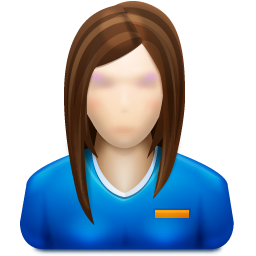
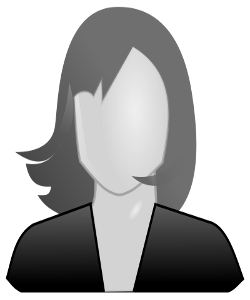
fixed user pictures in comments & slider partial error

diff --git a/app/assets/stylesheets/style.css.scss b/app/assets/stylesheets/style.css.scss
@@ -180,6 +180,7 @@ body {
   margin-right: 0;
   margin-bottom: 30px;
   margin-left: 0;
+  position: fixed;
 }
 
 .smart-title {
@@ -218,6 +219,7 @@ body {
   width: 50px;
   border: solid 1px #dedede;
   padding: 3px;
+  background-color: #fff;
 }
 
 .stext {

diff --git a/app/models/photo.rb b/app/models/photo.rb
@@ -2,8 +2,9 @@ class Photo < ActiveRecord::Base
   attr_accessible :image
   
   belongs_to :user
-  
+    
   has_attached_file :image, :styles => { :small => "50x50#", :thumb => "150x150#", :medium => "250x300#", :large => "500x300#" },
+                    :default_url => "/assets/user_photos/default.jpg",
                     :url => "/assets/user_photos/:id/:style/:basename",
                     :path =>":rails_root/public/assets/user_photos/:id/:style/:basename"
 end

diff --git a/app/controllers/users_controller.rb b/app/controllers/users_controller.rb
@@ -1,6 +1,7 @@
 class UsersController < ApplicationController
   before_filter :signed_in_user, only: [:edit, :update, :show, :index]
   before_filter :correct_user, only: [:edit, :update]
+  before_filter :initialize_users, only: [:new, :create]
   
   def index
     @users = User.paginate(page: params[:page], :per_page => 15)

diff --git a/app/models/comment.rb b/app/models/comment.rb
@@ -3,6 +3,7 @@ class Comment < ActiveRecord::Base
   
   belongs_to :user
   belongs_to :commenter, foreign_key: 'commenter_id', class_name: 'User'
+  has_one :photo, through: 'user'
   
   validates :user_id, presence: :true
   validates :commenter_id, presence: :true

diff --git a/app/controllers/sessions_controller.rb b/app/controllers/sessions_controller.rb
@@ -1,4 +1,6 @@
 class SessionsController < ApplicationController
+  before_filter :initialize_users, only: [:new, :create]
+  
   def new
   end
   

diff --git a/app/helpers/sessions_helper.rb b/app/helpers/sessions_helper.rb
@@ -42,4 +42,8 @@ module SessionsHelper
     end
   end
   
+  def initialize_users
+    @users = User.last(3)
+  end
+  
 end
